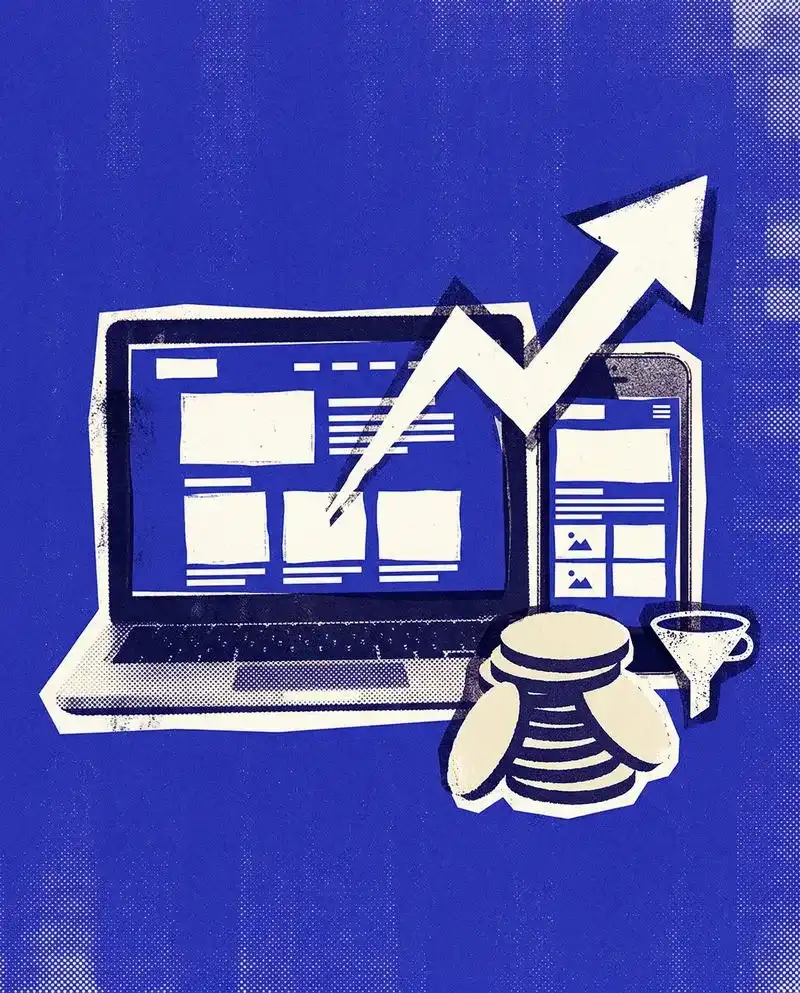
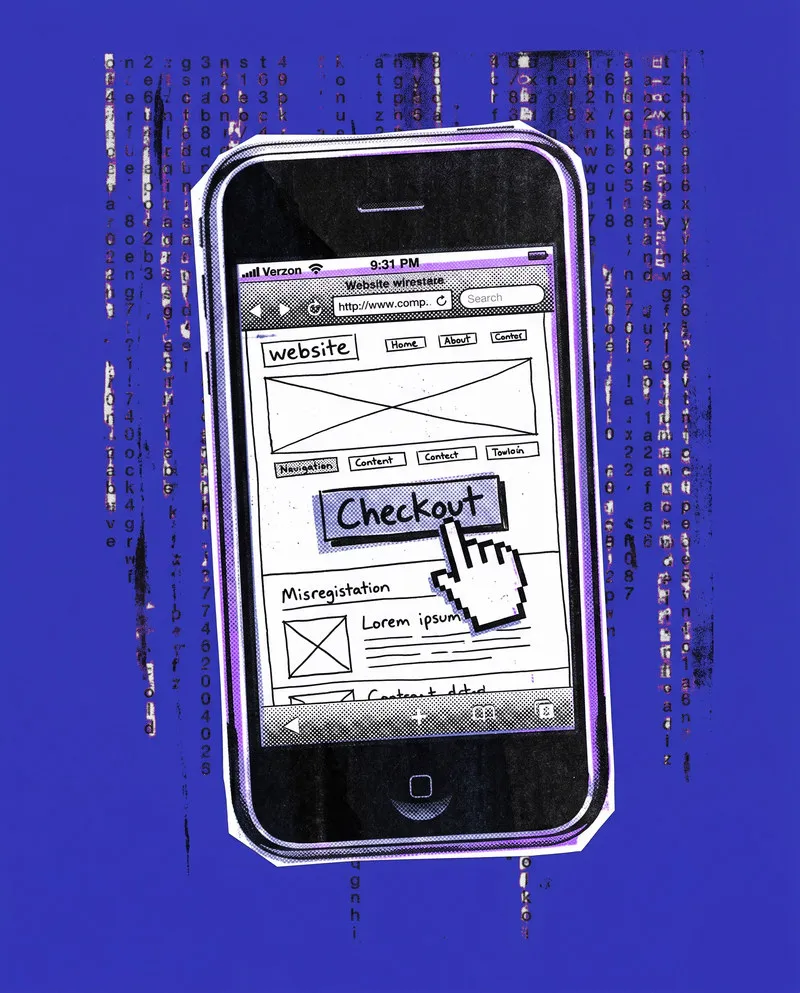
h

diff --git a/components/sections/DashboardShowcase.tsx b/components/sections/DashboardShowcase.tsx
@@ -115,7 +115,7 @@ export function DashboardShowcase() {
                         Custom dashboard management{" "}
                         <em className="font-serif-10 italic text-white/50">suited for your business needs.</em>
                     </h2>
-                    <p className="mt-4 text-sm text-white/45 leading-relaxed max-w-2xl">
+                    <p className="mt-4 text-sm text-white/70 leading-relaxed max-w-2xl">
                         Not a generic CMS. A custom admin panel built around how your business actually runs, syncing live to your website.
                     </p>
                 </motion.div>
@@ -158,13 +158,13 @@ export function DashboardShowcase() {
                                         <div className="flex-1 min-w-0 pr-6">
                                             <span className={[
                                                 "block font-mono text-[10px] uppercase tracking-[0.25em] transition-colors duration-300",
-                                                isActive ? "text-white" : "text-white/40",
+                                                isActive ? "text-white" : "text-white/65",
                                             ].join(" ")}>
                                                 {type.heading}
                                             </span>
                                             <p className={[
                                                 "mt-1.5 text-[12px] leading-relaxed transition-all duration-300 line-clamp-2",
-                                                isActive ? "text-white/60" : "text-white/30 group-hover:text-white/45",
+                                                isActive ? "text-white/80" : "text-white/60 group-hover:text-white/75",
                                             ].join(" ")}>
                                                 {type.copy}
                                             </p>
@@ -272,7 +272,7 @@ export function DashboardShowcase() {
                             })}
                         </div>
 
-                        <p className="font-mono text-[9px] uppercase tracking-[0.3em] text-white/20">
+                        <p className="font-mono text-[9px] uppercase tracking-[0.3em] text-white/60">
                             {current.heading} · {currentImage.label} · Live screenshot
                         </p>
                     </motion.div>

diff --git a/components/sections/Footer.tsx b/components/sections/Footer.tsx
@@ -77,7 +77,7 @@ export function Footer() {
 
                         {masterConfig.contact.socialMedia.enabled && (
                             <div className="w-full border-t border-white/10 pt-6 mt-8 flex flex-col gap-4">
-                                <span className="font-mono text-[10px] uppercase tracking-[0.2em] text-white/60">Connect with us</span>
+                                <span className="font-mono text-[10px] uppercase tracking-[0.2em] text-white/85">Connect with us</span>
                                 <div className="flex flex-wrap items-center gap-5">
                                     {socialEntries.map(([platform, url]) => {
                                         const Icon = socialIcons[platform];
@@ -104,7 +104,7 @@ export function Footer() {
                                 <div className="text-[11px] font-mono text-white/80 uppercase tracking-widest">
                                     &copy; {year} BRANDBASE. ALL RIGHTS RESERVED.
                                 </div>
-                                <div className="text-[11px] font-mono text-white/50 uppercase tracking-widest">
+                                <div className="text-[11px] font-mono text-white/80 uppercase tracking-widest">
                                     GSTIN: 10DHEPB0541R1ZN
                                 </div>
                             </div>

diff --git a/components/sections/AISearchBanner.tsx b/components/sections/AISearchBanner.tsx
@@ -113,9 +113,9 @@ export function AISearchBanner() {
 
                                 {/* Text */}
                                 <div>
-                                    <h4 className="font-serif text-lg tracking-tight text-ink group-hover:text-primary transition-colors duration-300">
+                                    <h3 className="font-serif text-lg tracking-tight text-ink group-hover:text-primary transition-colors duration-300">
                                         {pillar.title}
-                                    </h4>
+                                    </h3>
                                     <p className="mt-2 text-[12px] text-ink-muted leading-relaxed">
                                         {pillar.desc}
                                     </p>
